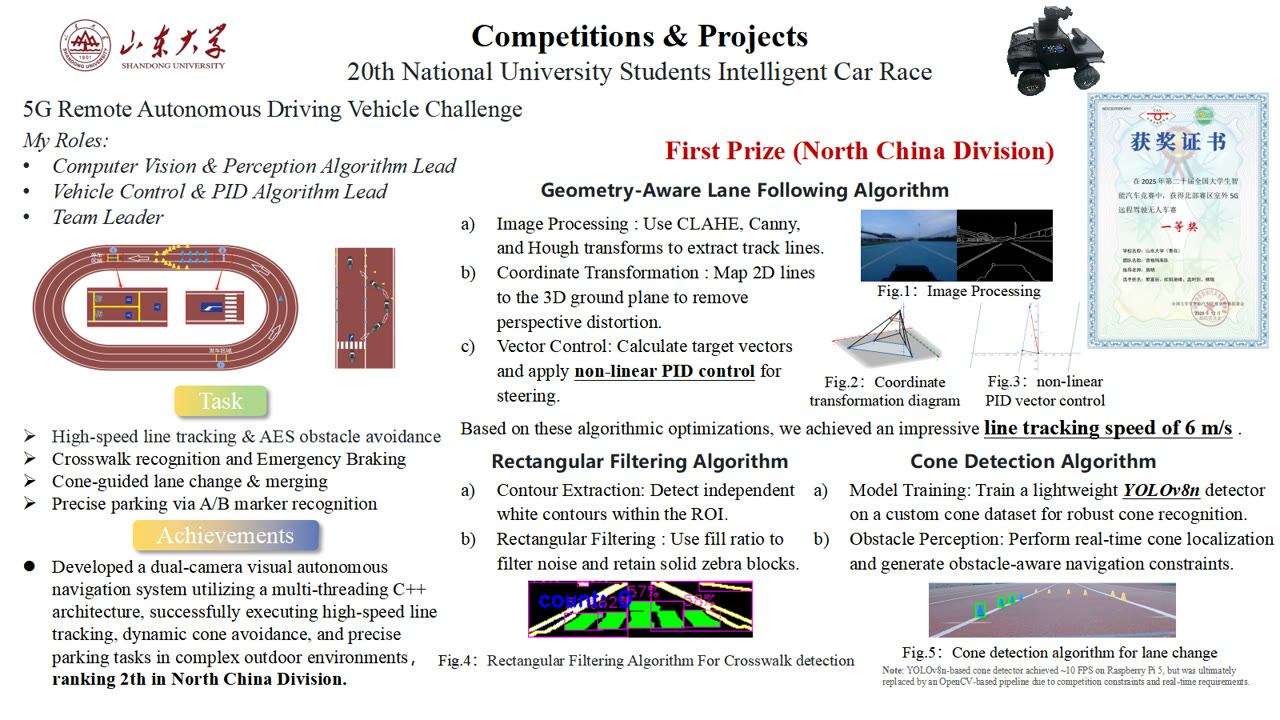
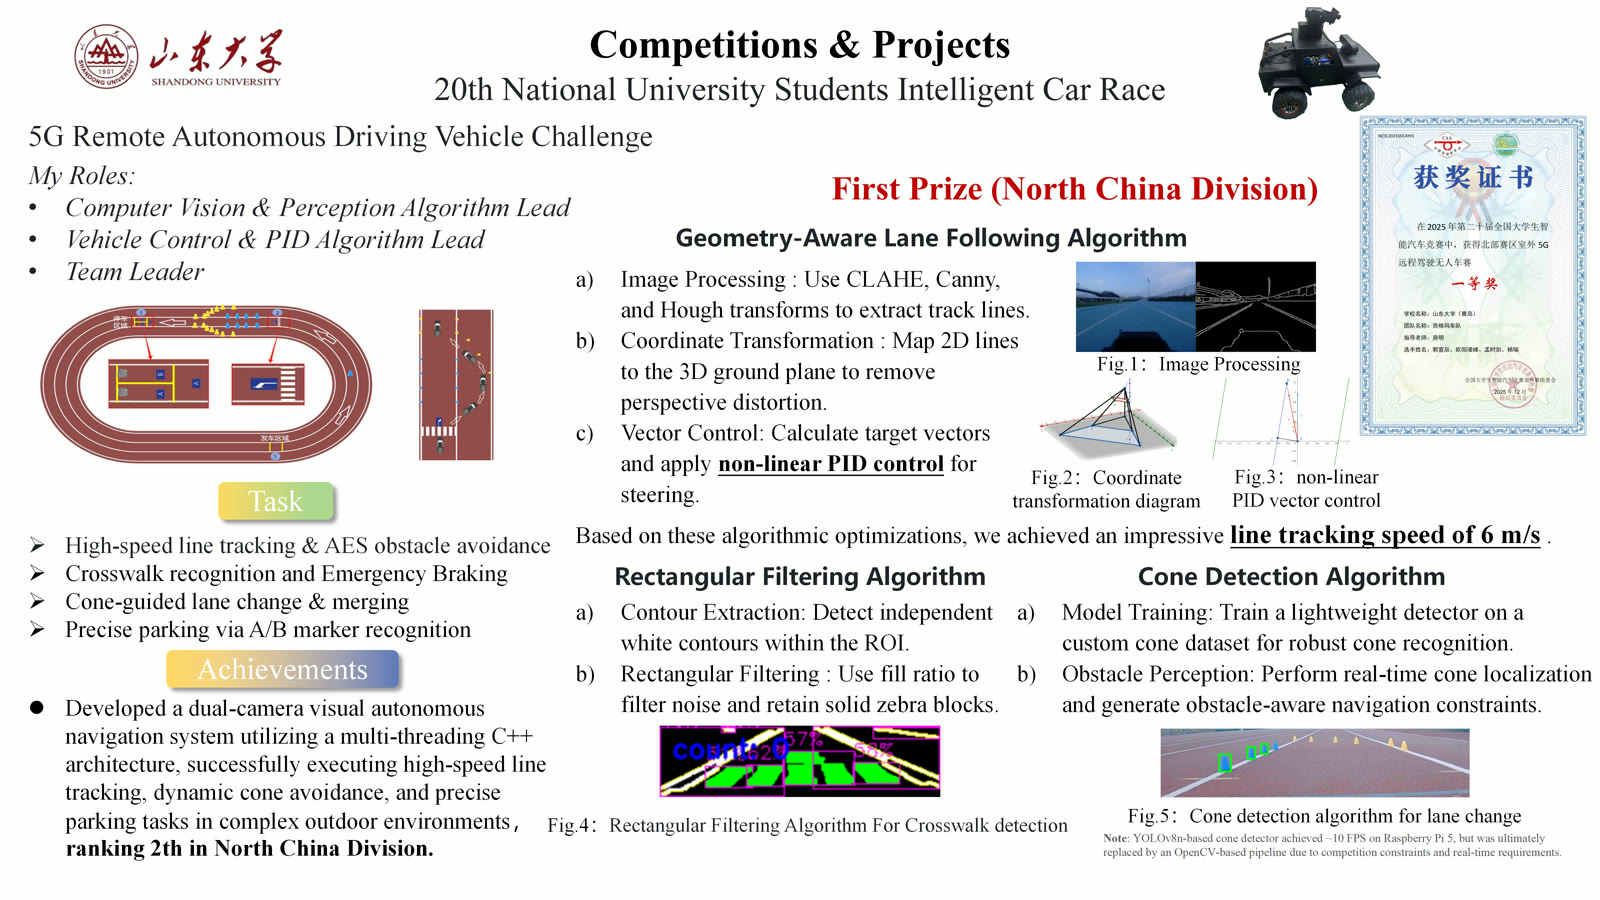
Shootz video: inline autoplay with GIF cover; competitions: three-line entry, no zoom, moved above guestbook

diff --git a/index.html b/index.html
@@ -421,57 +421,6 @@
       box-shadow: var(--shadow-sm);
       background: #ffffff;
     }
-    .thumb-btn {
-      position: relative;
-      flex-shrink: 0;
-      width: 160px;
-      height: 90px;
-      padding: 0;
-      border: 1px solid var(--border);
-      border-radius: 12px;
-      background: #ffffff;
-      box-shadow: var(--shadow-sm);
-      cursor: pointer;
-      overflow: hidden;
-      -webkit-appearance: none;
-      appearance: none;
-    }
-    .thumb-btn img {
-      display: block;
-      width: 100%;
-      height: 100%;
-      object-fit: cover;
-      transition: transform 0.4s ease, filter 0.4s ease;
-    }
-    .thumb-btn:hover img {
-      transform: scale(1.05);
-      filter: brightness(0.85);
-    }
-    .thumb-badge {
-      position: absolute;
-      top: 50%;
-      left: 50%;
-      transform: translate(-50%, -50%);
-      width: 34px;
-      height: 34px;
-      border-radius: 50%;
-      background: rgba(9, 9, 11, 0.55);
-      -webkit-backdrop-filter: blur(4px);
-      backdrop-filter: blur(4px);
-      color: #ffffff;
-      display: flex;
-      align-items: center;
-      justify-content: center;
-      font-size: 12px;
-      pointer-events: none;
-      transition: transform 0.25s ease, background 0.25s ease;
-    }
-    .thumb-badge i.fa-play { margin-left: 2px; }
-    .thumb-btn:hover .thumb-badge {
-      transform: translate(-50%, -50%) scale(1.12);
-      background: rgba(9, 9, 11, 0.72);
-    }
-
     /* Competition */
     .comp-item {
       display: flex;
@@ -499,73 +448,16 @@
       font-weight: 500;
       color: var(--text-2);
     }
-    .comp-detail {
-      margin-top: 12px;
-      font-size: 14.5px;
-      color: var(--text-3);
-      line-height: 1.65;
-    }
-    .comp-detail p { margin: 0 0 8px; max-width: 72ch; }
-    .comp-detail p:last-child { margin-bottom: 0; }
     .comp-thumb {
+      flex-shrink: 0;
       width: 260px;
       height: 146px;
+      object-fit: cover;
+      border-radius: 12px;
+      border: 1px solid var(--border);
+      box-shadow: var(--shadow-sm);
+      background: #ffffff;
       align-self: flex-start;
-    }
-
-    /* Lightbox video preview */
-    .lightbox {
-      position: fixed;
-      inset: 0;
-      z-index: 1000;
-      display: flex;
-      align-items: center;
-      justify-content: center;
-      padding: 28px;
-      background: rgba(9, 9, 11, 0.78);
-      -webkit-backdrop-filter: blur(10px);
-      backdrop-filter: blur(10px);
-      opacity: 0;
-      transition: opacity 0.25s ease;
-    }
-    .lightbox[hidden] { display: none; }
-    .lightbox.open { opacity: 1; }
-    .lightbox-video {
-      max-width: min(1080px, 100%);
-      max-height: 84vh;
-      border-radius: 14px;
-      background: #000;
-      box-shadow: 0 24px 90px rgba(0, 0, 0, 0.55);
-      outline: none;
-    }
-    .lightbox-img {
-      max-width: min(1080px, 100%);
-      max-height: 84vh;
-      border-radius: 14px;
-      background: #000;
-      box-shadow: 0 24px 90px rgba(0, 0, 0, 0.55);
-      object-fit: contain;
-    }
-    .lightbox-close {
-      position: absolute;
-      top: 20px;
-      right: 24px;
-      width: 42px;
-      height: 42px;
-      border-radius: 50%;
-      border: 1px solid rgba(255, 255, 255, 0.28);
-      background: rgba(255, 255, 255, 0.10);
-      color: #ffffff;
-      font-size: 16px;
-      cursor: pointer;
-      display: flex;
-      align-items: center;
-      justify-content: center;
-      transition: background 0.2s ease, transform 0.2s ease;
-    }
-    .lightbox-close:hover {
-      background: rgba(255, 255, 255, 0.22);
-      transform: rotate(90deg);
     }
 
     /* Education */
@@ -732,7 +624,6 @@
       .exp-item { flex-wrap: wrap; }
       .exp-logo-wrap { width: 110px; }
       .exp-thumb { width: 132px; height: 74px; }
-      .thumb-btn { width: 132px; height: 74px; }
       .comp-item { flex-direction: column; gap: 16px; }
       .comp-thumb { width: 100%; height: auto; aspect-ratio: 16 / 9; }
     }
@@ -745,10 +636,10 @@
       <a href="#top" class="nav-brand">Rui Yang</a>
       <div class="nav-links">
         <a href="#experience" class="nav-link">Experience</a>
-        <a href="#competitions" class="nav-link">Competitions</a>
         <a href="#publications" class="nav-link">Publications</a>
         <a href="#education" class="nav-link">Education</a>
         <a href="#projects" class="nav-link">Projects</a>
+        <a href="#competitions" class="nav-link">Competitions</a>
         <a href="#guestbook" class="nav-link">Guestbook</a>
         <button class="theme-toggle" id="theme-toggle" aria-label="Toggle theme">
           <i class="fa-regular fa-moon"></i>
@@ -826,40 +717,9 @@
                 <p>Multi agent system for End-to-End sports Video-to-Data Generation — Research focus on player tracking, embedding &amp; clustering based on VLM.</p>
               </div>
             </div>
-            <button class="thumb-btn" type="button" data-kind="video" data-src="images/shootz-preview.mp4" aria-label="Play work preview video">
-              <img src="images/shootz-poster.jpg" alt="Work preview at shootz.tech" loading="lazy">
-              <span class="thumb-badge" aria-hidden="true"><i class="fa-solid fa-play"></i></span>
-            </button>
+            <video class="exp-thumb" src="images/shootz-preview.mp4" poster="images/shootz-cover.gif" autoplay muted loop playsinline preload="auto" aria-label="Work preview at shootz.tech"></video>
           </div>
 
-        </div>
-      </div>
-    </section>
-
-    <!-- ========== Competitions ========== -->
-    <section id="competitions" class="block">
-      <div class="container">
-        <div class="section-head reveal">
-          <h2 class="section-title">Competitions</h2>
-          <div class="section-rule"></div>
-        </div>
-        <div class="comp-item reveal reveal-1">
-          <div class="comp-body">
-            <span class="comp-title">20th National University Students Intelligent Car Race · 5G Remote Autonomous Driving Vehicle Challenge</span>
-            <div class="comp-meta">
-              <span class="pub-venue">First Prize · North China Division (Ranked 2nd)</span>
-              <span class="comp-role">Team Leader · CV &amp; Perception Algorithm Lead · Vehicle Control &amp; PID Algorithm Lead</span>
-            </div>
-            <div class="comp-detail">
-              <p>Built a dual-camera visual autonomous navigation system (multi-threaded C++) for high-speed line tracking at 6 m/s, crosswalk emergency braking, cone-guided lane change &amp; merging, and precise parking via A/B marker recognition.</p>
-              <p>Geometry-aware lane following — CLAHE, Canny &amp; Hough line extraction with 3D ground-plane mapping to remove perspective distortion, and non-linear PID vector steering.</p>
-              <p>Crosswalk detection via fill-ratio rectangular filtering; cone detection with a YOLOv8n detector trained on a custom dataset, later replaced by an OpenCV pipeline for real-time constraints.</p>
-            </div>
-          </div>
-          <button class="thumb-btn comp-thumb" type="button" data-kind="image" data-src="images/competition.jpg" aria-label="View competition photo">
-            <img src="images/competition.jpg" alt="Intelligent car race — 5G remote autonomous driving vehicle" loading="lazy">
-            <span class="thumb-badge" aria-hidden="true"><i class="fa-solid fa-magnifying-glass-plus"></i></span>
-          </button>
         </div>
       </div>
     </section>
@@ -946,6 +806,27 @@
         </div>
       </div>
     </section>
+
+    <!-- ========== Competitions ========== -->
+    <section id="competitions" class="block">
+      <div class="container">
+        <div class="section-head reveal">
+          <h2 class="section-title">Competitions</h2>
+          <div class="section-rule"></div>
+        </div>
+        <div class="comp-item reveal reveal-1">
+          <div class="comp-body">
+            <span class="comp-title">20th National University Students Intelligent Car Race · 5G Remote Autonomous Driving Vehicle Challenge</span>
+            <div class="comp-meta">
+              <span class="pub-venue">First Prize · North China Division (Ranked 2nd)</span>
+              <span class="comp-role">Team Leader · CV &amp; Perception Algorithm Lead · Vehicle Control &amp; PID Algorithm Lead</span>
+            </div>
+          </div>
+          <img src="images/competition.jpg" alt="Intelligent car race — 5G remote autonomous driving vehicle" class="comp-thumb" loading="lazy">
+        </div>
+      </div>
+    </section>
+
     <!-- ========== Guestbook ========== -->
     <section id="guestbook" class="block">
       <div class="container">
@@ -968,13 +849,6 @@
     </div>
   </footer>
 
-  <!-- Lightbox video preview -->
-  <div class="lightbox" id="lightbox" hidden>
-    <button class="lightbox-close" type="button" aria-label="Close preview"><i class="fa-solid fa-xmark"></i></button>
-    <video class="lightbox-video" controls playsinline preload="auto" hidden></video>
-    <img class="lightbox-img" alt="Enlarged preview" hidden>
-  </div>
-
   <script>
     (function () {
       // Theme toggle
@@ -985,55 +859,6 @@
           var next = root.getAttribute('data-theme') === 'dark' ? 'light' : 'dark';
           root.setAttribute('data-theme', next);
           try { localStorage.setItem('theme', next); } catch (e) {}
-        });
-      }
-
-      // Lightbox preview (video & image)
-      var lightbox = document.getElementById('lightbox');
-      if (lightbox) {
-        var lbVideo = lightbox.querySelector('.lightbox-video');
-        var lbImage = lightbox.querySelector('.lightbox-img');
-        function openLightbox(kind, src) {
-          if (kind === 'image') {
-            lbImage.src = src;
-            lbImage.hidden = false;
-            lbVideo.hidden = true;
-          } else {
-            lbVideo.src = src;
-            lbVideo.hidden = false;
-            lbImage.hidden = true;
-            lbVideo.play().catch(function () {});
-          }
-          lightbox.hidden = false;
-          requestAnimationFrame(function () { lightbox.classList.add('open'); });
-          document.body.style.overflow = 'hidden';
-        }
-        function closeLightbox() {
-          lightbox.classList.remove('open');
-          if (!lbVideo.hidden) {
-            lbVideo.pause();
-            lbVideo.removeAttribute('src');
-            lbVideo.load();
-            lbVideo.hidden = true;
-          }
-          if (!lbImage.hidden) {
-            lbImage.removeAttribute('src');
-            lbImage.hidden = true;
-          }
-          document.body.style.overflow = '';
-          setTimeout(function () { lightbox.hidden = true; }, 260);
-        }
-        document.querySelectorAll('.thumb-btn').forEach(function (btn) {
-          btn.addEventListener('click', function () {
-            openLightbox(btn.getAttribute('data-kind'), btn.getAttribute('data-src'));
-          });
-        });
-        lightbox.addEventListener('click', function (e) {
-          if (e.target === lightbox) closeLightbox();
-        });
-        lightbox.querySelector('.lightbox-close').addEventListener('click', closeLightbox);
-        document.addEventListener('keydown', function (e) {
-          if (e.key === 'Escape' && !lightbox.hidden) closeLightbox();
         });
       }
 
